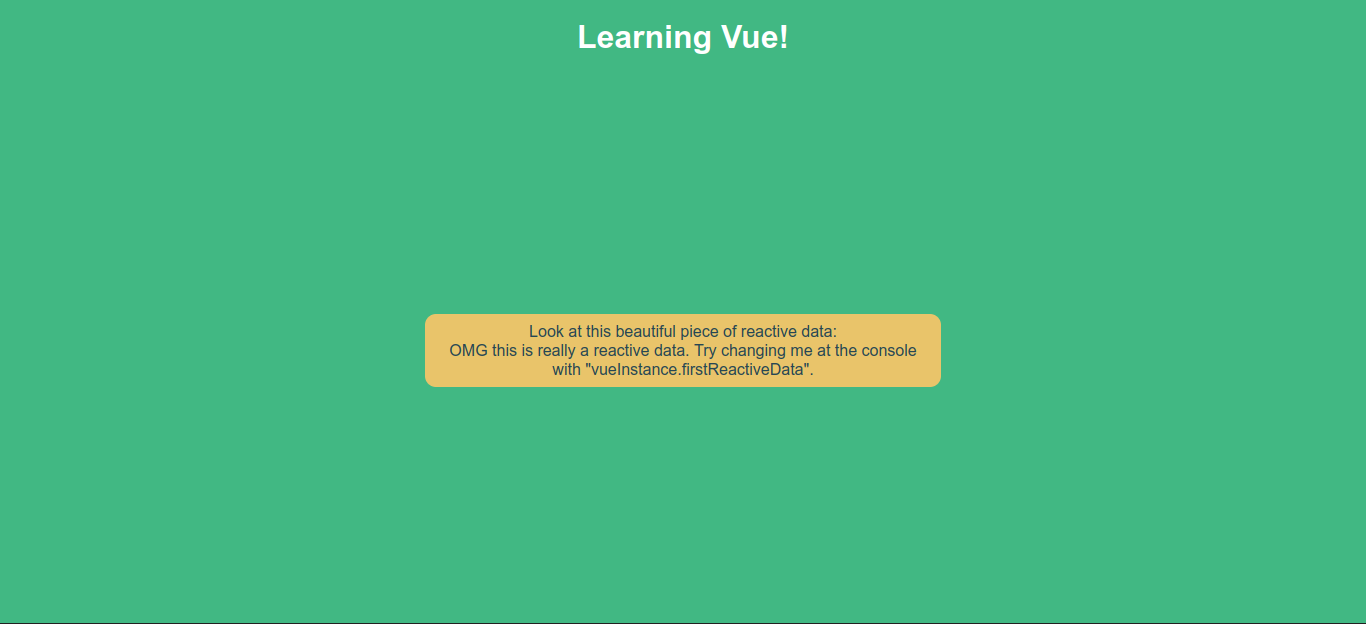
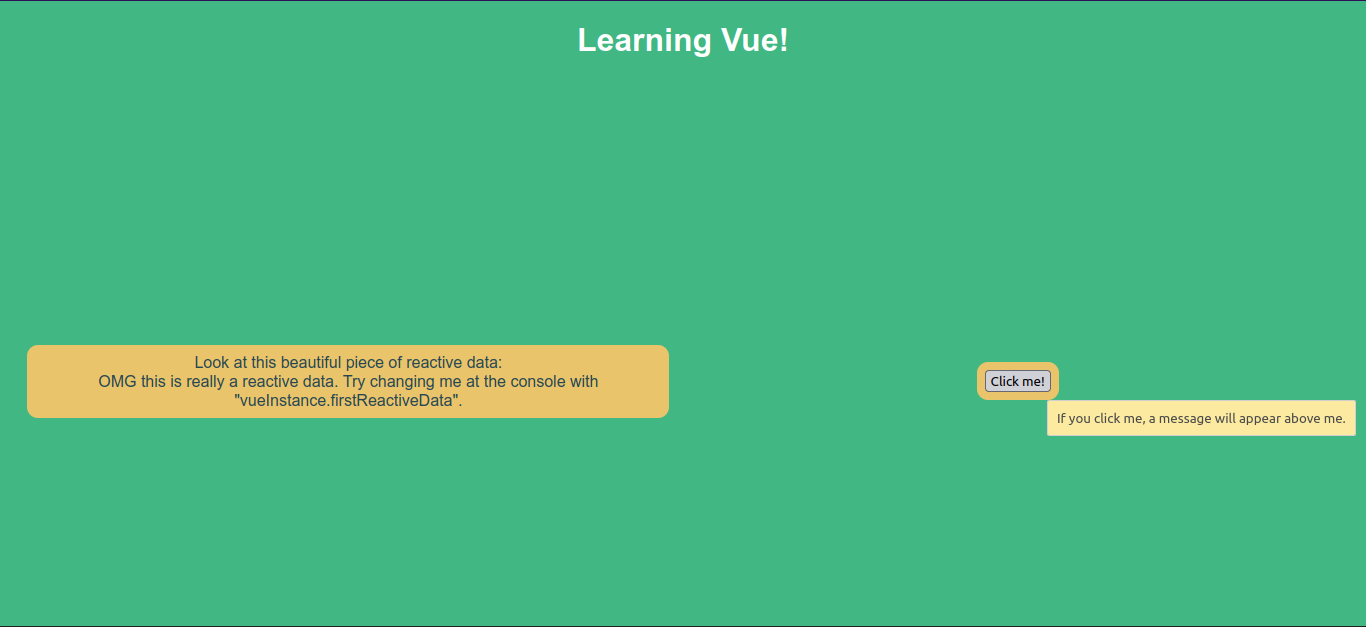
Add conditional rendering (v-if) and v-on directive
Also Vue methods!

Changed region(s): [[0.0, 0.4872, 1.0, 0.7003], [0.4305, 0.0304, 0.5842, 0.0913]]

diff --git a/index.html b/index.html
@@ -17,6 +17,15 @@
 				{{firstReactiveData}}
 			</div>
 		</div>
+
+		<div class="color-block">
+			<span v-if="showTitle">I may or may not appear! This is called conditional rendering!</span>
+			<div>
+				<button v-on:click="toggleAppeareance"
+				v-bind:title="buttonTitle">Click me!</button>	
+			</div>
+		</div>
+
 	</main>
 	
 	
@@ -32,7 +41,20 @@
 			el: '#theVueElement',
 			data: {
 				firstReactiveData: "OMG this is really a reactive data. Try changing me at the console with \"vueInstance.firstReactiveData\".",
-				reactiveAttribute: "Hello! This title attribute is controlled by a Vue directive (v-bind)."
+				reactiveAttribute: "Hello! This title attribute is controlled by a Vue directive (v-bind).",
+				showTitle: false,
+				buttonTitle: "If you click me, a message will appear above me."
+			},
+			methods: {
+				toggleAppeareance: function () {
+					this.showTitle = !this.showTitle;
+					if(this.showTitle) {
+						this.buttonTitle = "If you click me, the message above will vanish!"
+					}
+					else {
+						this.buttonTitle = "If you click me, a message will appear above me."
+					}
+				}
 			}
 		})
 	</script>

diff --git a/index.css b/index.css
@@ -14,6 +14,7 @@ html {
 	background-color: var(--vue-logo-light-green);
 	font-family: Arial, sans-serif;
 	text-align: center;
+	box-sizing: border-box;
 }
 
 body {
@@ -34,6 +35,9 @@ header {
 main {
 	height: 94%;
 	display: grid;
+	grid-template-columns: 1fr 1fr;
+	gap: 2vw;
+	padding: 2vw;
 }
 
 
@@ -44,7 +48,6 @@ main {
 	background-color: var(--pallete-1-yellow);
 	border-color: orangered;
 	color: var(--pallete-4-dark-blue);
-	width: 500px;
 	margin: auto;
 	border-radius: 11px;
 	padding: 8px;
